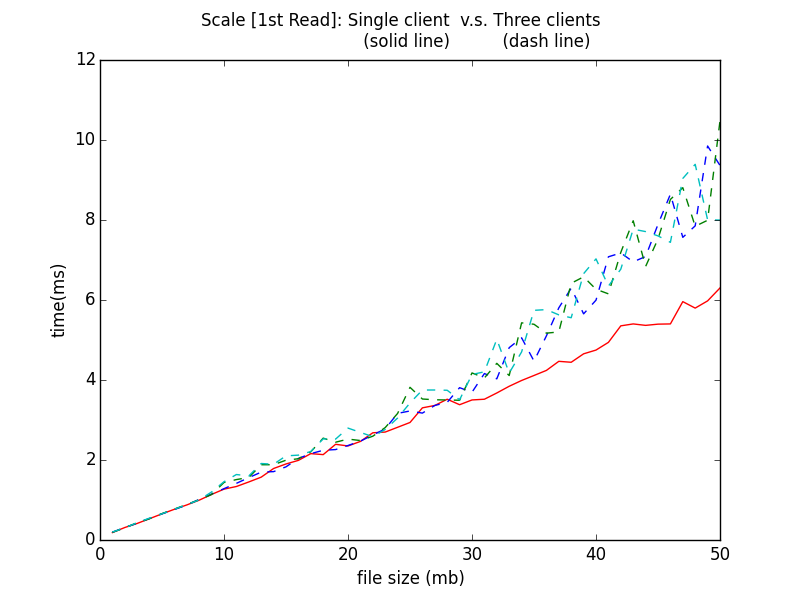
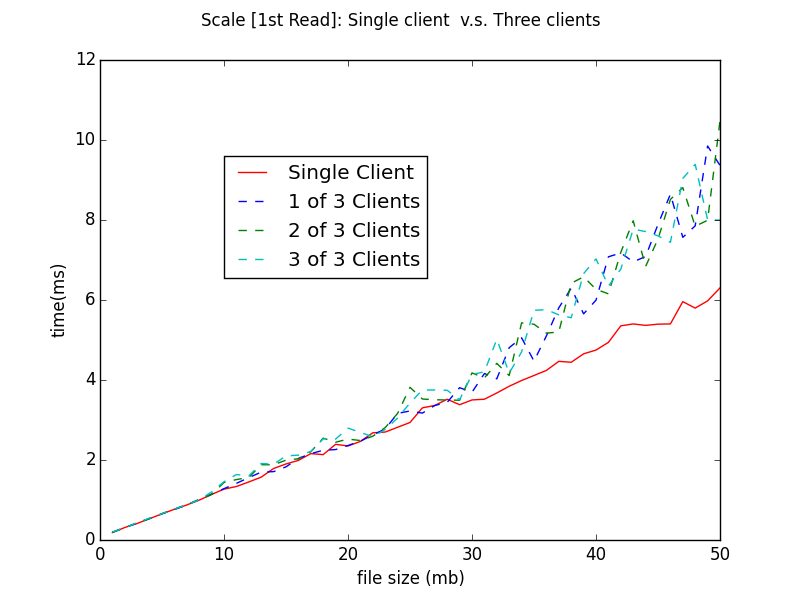
update wording in figures

Changed region(s): [[0.2812, 0.24, 0.5625, 0.48], [0.625, 0.06, 0.75, 0.09], [0.4375, 0.06, 0.5625, 0.09]]

diff --git a/data/scale.py b/data/scale.py
@@ -55,15 +55,16 @@ def DrawFig(filename):
 
   fig = plt.figure()
   ax = fig.add_subplot(111)
-  fig.suptitle("Scale [1st Read]: Single client  v.s. Three clients  \n                             (solid line)          (dash line) ")
+  fig.suptitle("Scale [1st Read]: Single client  v.s. Three clients")
   plt.xlabel('file size (mb)')
   plt.ylabel('time(ms)')
 #  ax.set_yscale('log')
 #plt.xlim([2.6, 8.3])
-  ax.plot(n0, r01, 'r-')
-  ax.plot(n1, r11, 'b--')
-  ax.plot(n2, r21, 'g--')
-  ax.plot(n3, r31, 'c--')
+  ax.plot(n0, r01, 'r-', label="Single Client")
+  ax.plot(n1, r11, 'b--', label="1 of 3 Clients")
+  ax.plot(n2, r21, 'g--', label="2 of 3 Clients")
+  ax.plot(n3, r31, 'c--', label="3 of 3 Clients")
+  ax.legend(bbox_to_anchor=(0.2, 0.8), loc=2, borderaxespad=0.)
   plt.savefig('scale.png')
   plt.show()
   return

diff --git a/data/single.py b/data/single.py
@@ -31,12 +31,15 @@ def DrawFig(filename):
 
   fig = plt.figure()
   ax = fig.add_subplot(111)
-  fig.suptitle("Single client:  Write (red),  1st Read (blue),  2nd Read (green)")
+  fig.suptitle("Single client:  Write,  1st Read,  2nd Read")
   plt.xlabel('file size (mb)')
   plt.ylabel('time(ms)')
 #  ax.set_yscale('log')
 #plt.xlim([2.6, 8.3])
-  ax.plot(n, w, 'ro', n, r1, 'b^', n, r2, 'g^')
+  ax.plot(n, w, 'ro', label="write")
+  ax.plot(n, r1, 'b^', label="1st read")
+  ax.plot(n, r2, 'g^', label="2nd read")
+  ax.legend(bbox_to_anchor=(0.2, 0.8), loc=2, borderaxespad=0.)
   plt.savefig('single.png')
   plt.show()
   return
